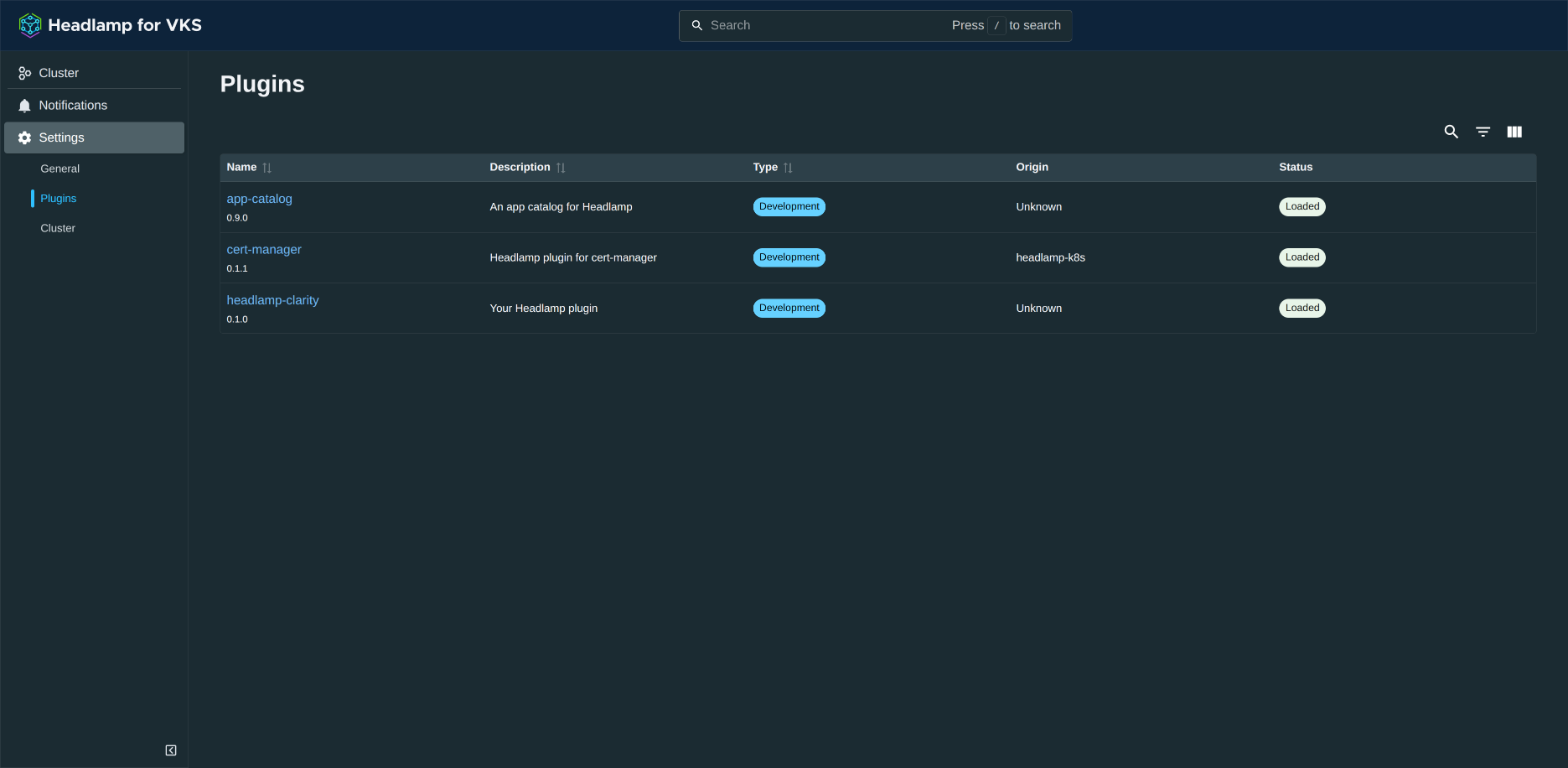
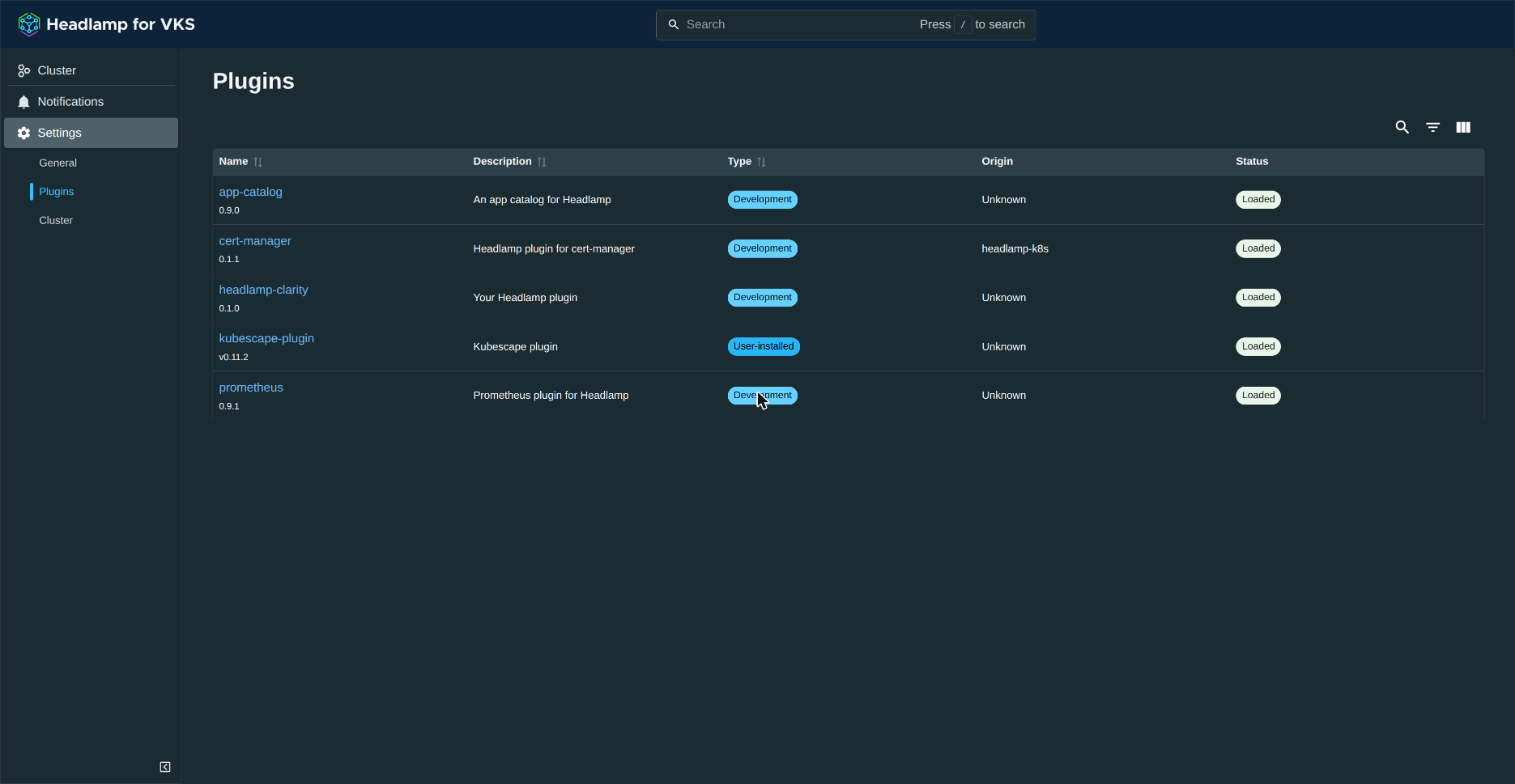
docs: HEADLAMP.md plugins measured: Prometheus address for namespace-limited accounts, Kubescape pages need an account for every namespace, plugin screenshots; review fixes

diff --git a/docs/HEADLAMP.md b/docs/HEADLAMP.md
@@ -974,9 +974,16 @@ a third is downloaded when you turn it on:
 |---|---|---|---|---|
 | cert-manager | **cert-manager** in the menu: certificates, issuers | inside Headlamp | always (step 2 installs cert-manager) | nothing; it sees the certificates in its namespaces |
 | Prometheus | CPU, memory and network charts on pods, nodes, deployments | inside Headlamp | the Prometheus add-on is installed | `headlamp-prometheus-query` (block below): it shows the whole cluster's metrics |
-| Kubescape | **Kubescape**: security scan results, vulnerabilities, compliance | downloaded from ArtifactHub when turned on | Kubescape runs in the cluster and step 9 has `KUBESCAPE_PLUGIN="yes"` | `headlamp-kubescape-reports` (block below) |
+| Kubescape | **Kubescape**: security scan results, vulnerabilities, compliance | downloaded from ArtifactHub when turned on | Kubescape runs in the cluster and step 9 has `KUBESCAPE_PLUGIN="yes"` | an account for every namespace (empty `ACCESS_NAMESPACE`) and `headlamp-kubescape-reports` (block below): its pages read the whole cluster |
 
 The plugins have no rights of their own: each person sees in them what their token may read.
+
+![Settings, Plugins: app-catalog, cert-manager, headlamp-clarity, kubescape-plugin, prometheus](img/headlamp/15-plugins.png)
+
+The **cert-manager** page lists the cluster's certificates and their state (its **Expires In**
+column shows `<invalid>`, a fault of the plugin; the date is in the certificate's details):
+
+![cert-manager: four certificates, Ready](img/headlamp/21-cert-manager.png)
 
 ### Prometheus
 
@@ -1058,7 +1065,18 @@ if ($LASTEXITCODE -ne 0) {
 
 **Expect:** `Addon 'prometheus' is being installed in the cluster …`, `condition met` lines, then
 the pods `prometheus-server-…` (`2/2`), `prometheus-kube-state-metrics-…` and one
-`prometheus-node-exporter-…` per node `Running`, and the volume `prometheus-server` `Bound`. About two minutes. Then a pod's page in Headlamp shows charts.
+`prometheus-node-exporter-…` per node `Running`, and the volume `prometheus-server` `Bound`. About
+two minutes.
+
+In Headlamp, the chart button at the top of a pod's or deployment's page shows its CPU, memory,
+network and disk use. For an account limited to one namespace the plugin cannot find Prometheus by
+itself ("Error fetching prometheus info"): in that browser, **Settings** → **Plugins** →
+**prometheus**, turn off **Auto detect**, enter `tanzu-system-monitoring/prometheus-server:80`,
+**Test Connection**, **Save**:
+
+![Prometheus plugin settings: address tanzu-system-monitoring/prometheus-server:80, Connection successful](img/headlamp/17-prometheus-settings.png)
+
+![Deployment hello: memory over the last hour](img/headlamp/18-prometheus-chart.png)
 
 **If not:** a pod `Pending`: the workers lack CPU or memory (about 450m CPU and 800 MiB with
 one worker), or the storage class has no room for `PROMETHEUS_STORAGE`. No charts in Headlamp: the account
@@ -1141,13 +1159,19 @@ about 15 minutes. The configuration scan runs once a day (`kubectl --kubeconfig 
 -n kubescape get cronjob kubescape-scheduler` shows when, in UTC); to run it now:
 `kubectl --kubeconfig <the VKS kubeconfig> -n kubescape create job --from=cronjob/kubescape-scheduler kubescape-first-scan`.
 
+Kubescape's pages show the whole cluster: an account limited to one namespace sees them empty.
+
+![Kubescape Compliance: 82% CIS, 80% MITRE, 71% NSA, failed controls](img/headlamp/19-kubescape-compliance.png)
+
+![Kubescape Vulnerabilities: CVEs by severity](img/headlamp/20-kubescape-vulnerabilities.png)
+
 ### Let an account read the plugins' data (cluster administrator)
 
 This gives an account from step 4 what the plugins read:
 
-- `headlamp-kubescape-reports`: Kubescape's results in the account's namespace (the summaries; the
-  detailed reports are kept in the namespace `kubescape`), or, for an account with an empty
-  `ACCESS_NAMESPACE`, in every namespace. Given when Kubescape is in the cluster.
+- `headlamp-kubescape-reports`: Kubescape's results in every namespace. Given only to an account
+  with an empty `ACCESS_NAMESPACE`, when Kubescape is in the cluster: the plugin's pages read the
+  whole cluster and show nothing to an account limited to one namespace.
 - `headlamp-prometheus-query`, only with `PROMETHEUS_QUERY="yes"`: asks Prometheus for metrics.
   Prometheus does not follow Kubernetes rights, so the account sees the metrics of every namespace,
   and in them the names of all pods, images and Secrets. Give it only to accounts allowed to see
@@ -1180,7 +1204,7 @@ else
       '  - apiGroups: ["spdx.softwarecomposition.kubescape.io"]' '    resources: ["*"]' '    verbs: ["get", "list", "watch"]' \
       | kubectl --kubeconfig "$VKS_KUBECONFIG" apply -f -
     if [ -n "$ACCESS_NAMESPACE" ]; then
-      kubectl --kubeconfig "$VKS_KUBECONFIG" -n "$ACCESS_NAMESPACE" create rolebinding "headlamp-${ACCOUNT}-kubescape" --clusterrole=headlamp-kubescape-reports --serviceaccount="$S" --dry-run=client -o yaml | kubectl --kubeconfig "$VKS_KUBECONFIG" apply -f -
+      echo "Kubescape plugin: its pages need an account for every namespace; nothing given"
     else
       kubectl --kubeconfig "$VKS_KUBECONFIG" create clusterrolebinding "headlamp-${ACCOUNT}-kubescape" --clusterrole=headlamp-kubescape-reports --serviceaccount="$S" --dry-run=client -o yaml | kubectl --kubeconfig "$VKS_KUBECONFIG" apply -f -
     fi
@@ -1222,7 +1246,7 @@ if ($LASTEXITCODE -ne 0) {
     @('apiVersion: rbac.authorization.k8s.io/v1', 'kind: ClusterRole', 'metadata:', '  name: headlamp-kubescape-reports', 'rules:',
       '  - apiGroups: ["spdx.softwarecomposition.kubescape.io"]', '    resources: ["*"]', '    verbs: ["get", "list", "watch"]') -join "`n" | Apply-Yaml
     if ($ACCESS_NAMESPACE) {
-      kubectl --kubeconfig $VKS_KUBECONFIG -n $ACCESS_NAMESPACE create rolebinding "headlamp-$ACCOUNT-kubescape" --clusterrole=headlamp-kubescape-reports "--serviceaccount=$S" --dry-run=client -o yaml | Apply-Yaml
+      "Kubescape plugin: its pages need an account for every namespace; nothing given"
     } else {
       kubectl --kubeconfig $VKS_KUBECONFIG create clusterrolebinding "headlamp-$ACCOUNT-kubescape" --clusterrole=headlamp-kubescape-reports "--serviceaccount=$S" --dry-run=client -o yaml | Apply-Yaml
     }
@@ -1236,8 +1260,8 @@ if ($LASTEXITCODE -ne 0) {
 
 **Expect:** for each plugin whose software is in the cluster (and, for Prometheus, with
 `PROMETHEUS_QUERY="yes"`), its role and binding `created` (`unchanged` on a second run); for the
-others, `… nothing given`. In Headlamp the account then sees its namespace's Kubescape results and,
-with Prometheus, a pod's charts.
+others, `… nothing given`. In Headlamp the account then sees, for an account for every namespace,
+Kubescape's pages and, with Prometheus, a pod's charts.
 
 **If not:** `STOPPED: …`: run step 4 first. A person still sees no charts: Headlamp asks for
 metrics when a page opens; reload the page.
